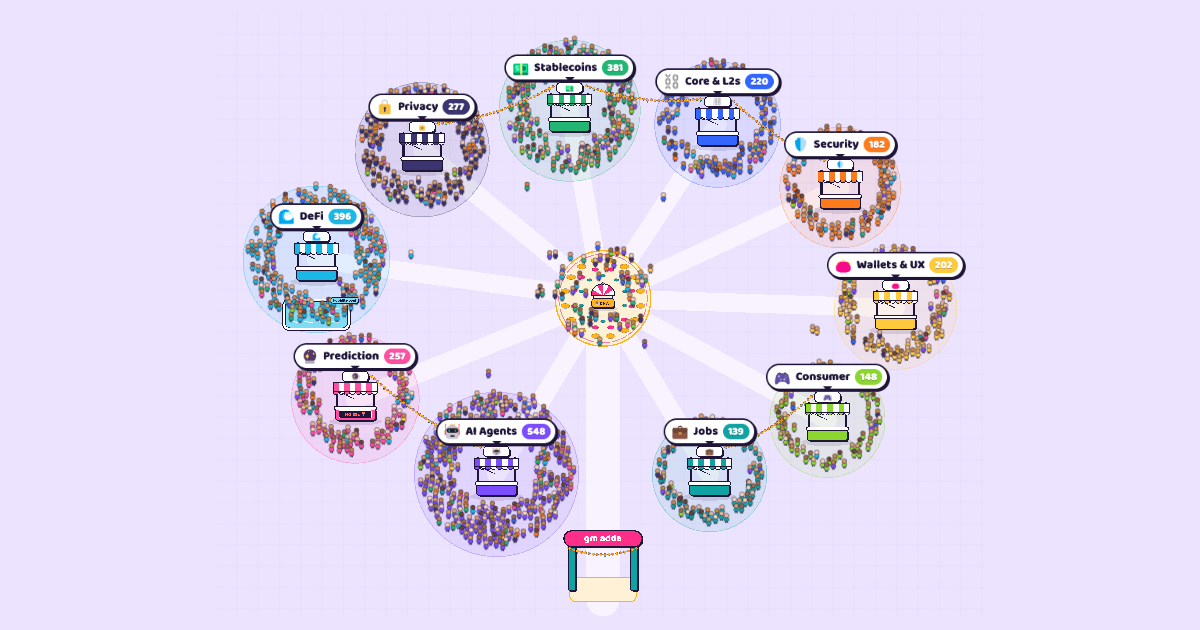
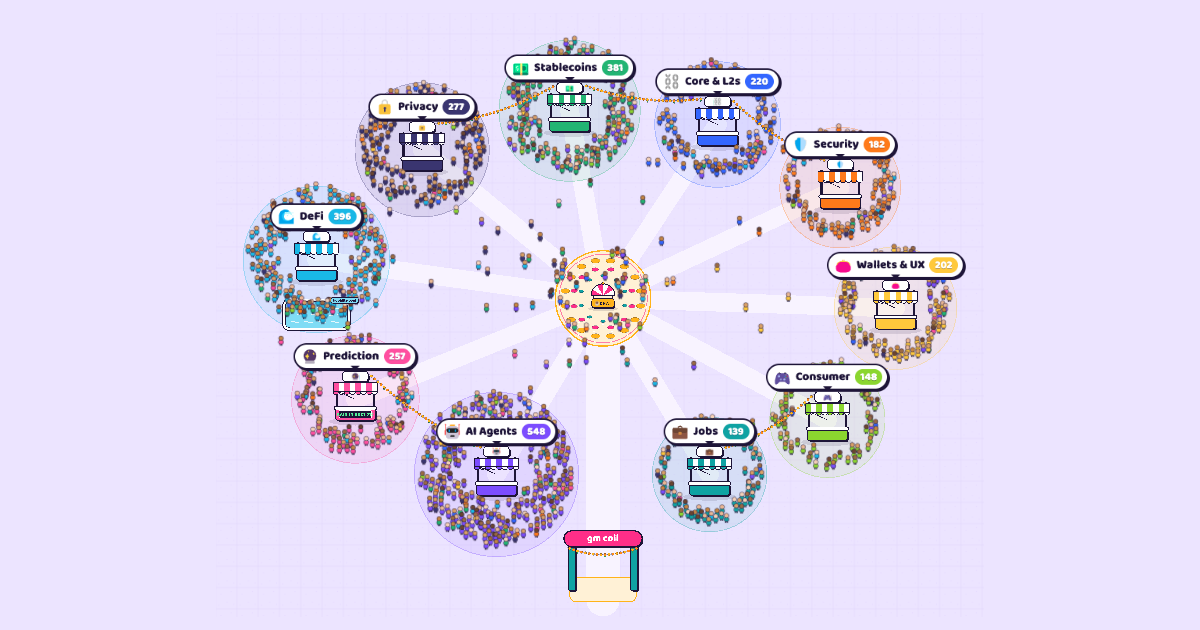
Refresh the link preview for coii and note iteration v1 in the plan

diff --git a/PLAN.md b/PLAN.md
@@ -37,6 +37,15 @@ for how to run it.
 - Spec: `docs/prd/who-should-i-meet.md`. Phase 1 needs the backend (real waves, 18+ gate);
   Phase 2 adds flares
 
+**Iteration v1 (2 Oct 2026, branch `iteration-v1`):**
+
+- Renamed to coii (connect on ideas & interests); the gate and wordmark say "gm coii"
+- About: a centred overlay with the thesis, what you can do, how it works and ground rules; the
+  venue keeps moving behind it
+- Your profile (join, view, edit) moved into a big centred overlay with a character studio:
+  live profile preview plus hair, hair colour, extras and skin tone pickers. Tapping your own
+  bean opens it; other people's profiles stay in the side panel / sheet
+
 **Next** (detailed task list with fun and engagement ideas: [TRACKER.md](TRACKER.md))
 
 1. Owner phone test on the LAN URL (`pnpm dev`, then `http://<mac-ip>:5173/?debug`): FPS +
